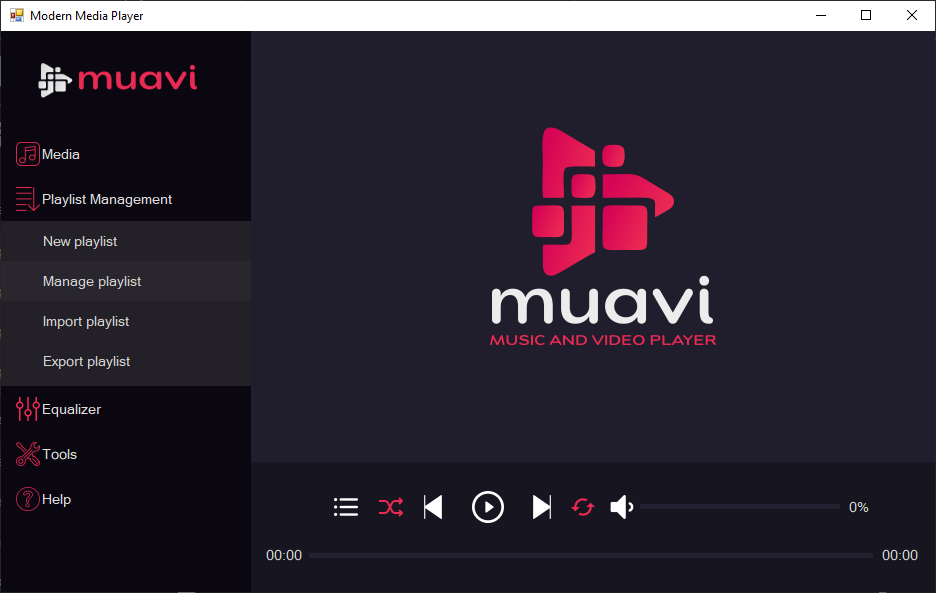
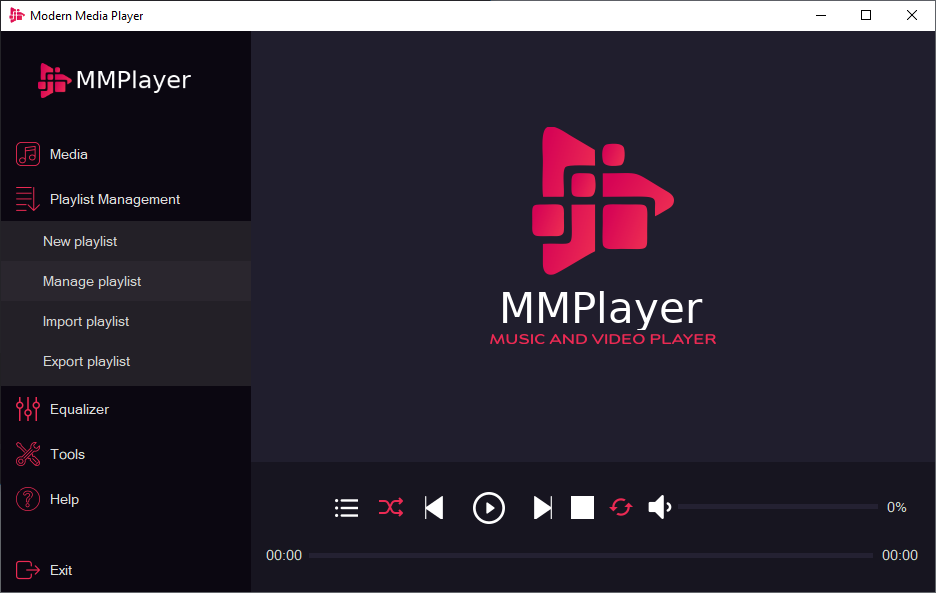
Lotso of graphical adjustments, updated previews

diff --git a/Modern UI audio player/Form1.Designer.cs b/Modern UI audio player/Form1.Designer.cs
@@ -105,7 +105,7 @@ namespace Modern_UI_audio_player
             this.panelSideMenu.Dock = System.Windows.Forms.DockStyle.Left;
             this.panelSideMenu.Location = new System.Drawing.Point(0, 0);
             this.panelSideMenu.Name = "panelSideMenu";
-            this.panelSideMenu.Size = new System.Drawing.Size(250, 582);
+            this.panelSideMenu.Size = new System.Drawing.Size(250, 561);
             this.panelSideMenu.TabIndex = 0;
             // 
             // btnExit
@@ -491,9 +491,9 @@ namespace Modern_UI_audio_player
             this.panelPlayer.Controls.Add(this.pictureBox6);
             this.panelPlayer.Controls.Add(this.pictureBox5);
             this.panelPlayer.Dock = System.Windows.Forms.DockStyle.Bottom;
-            this.panelPlayer.Location = new System.Drawing.Point(250, 452);
+            this.panelPlayer.Location = new System.Drawing.Point(250, 431);
             this.panelPlayer.Name = "panelPlayer";
-            this.panelPlayer.Size = new System.Drawing.Size(876, 130);
+            this.panelPlayer.Size = new System.Drawing.Size(684, 130);
             this.panelPlayer.TabIndex = 1;
             // 
             // btnStop
@@ -503,7 +503,7 @@ namespace Modern_UI_audio_player
             this.btnStop.FlatAppearance.BorderSize = 0;
             this.btnStop.FlatStyle = System.Windows.Forms.FlatStyle.Flat;
             this.btnStop.Image = ((System.Drawing.Image)(resources.GetObject("btnStop.Image")));
-            this.btnStop.Location = new System.Drawing.Point(415, 33);
+            this.btnStop.Location = new System.Drawing.Point(319, 33);
             this.btnStop.Name = "btnStop";
             this.btnStop.Size = new System.Drawing.Size(24, 24);
             this.btnStop.TabIndex = 26;
@@ -517,7 +517,7 @@ namespace Modern_UI_audio_player
             this.button2.FlatAppearance.BorderSize = 0;
             this.button2.FlatStyle = System.Windows.Forms.FlatStyle.Flat;
             this.button2.Image = ((System.Drawing.Image)(resources.GetObject("button2.Image")));
-            this.button2.Location = new System.Drawing.Point(375, 33);
+            this.button2.Location = new System.Drawing.Point(279, 33);
             this.button2.Name = "button2";
             this.button2.Size = new System.Drawing.Size(24, 24);
             this.button2.TabIndex = 25;
@@ -530,7 +530,7 @@ namespace Modern_UI_audio_player
             this.button1.FlatAppearance.BorderSize = 0;
             this.button1.FlatStyle = System.Windows.Forms.FlatStyle.Flat;
             this.button1.Image = ((System.Drawing.Image)(resources.GetObject("button1.Image")));
-            this.button1.Location = new System.Drawing.Point(266, 33);
+            this.button1.Location = new System.Drawing.Point(170, 33);
             this.button1.Name = "button1";
             this.button1.Size = new System.Drawing.Size(24, 24);
             this.button1.TabIndex = 24;
@@ -543,7 +543,7 @@ namespace Modern_UI_audio_player
             this.btnBrowse.FlatAppearance.BorderSize = 0;
             this.btnBrowse.FlatStyle = System.Windows.Forms.FlatStyle.Flat;
             this.btnBrowse.Image = ((System.Drawing.Image)(resources.GetObject("btnBrowse.Image")));
-            this.btnBrowse.Location = new System.Drawing.Point(179, 33);
+            this.btnBrowse.Location = new System.Drawing.Point(83, 33);
             this.btnBrowse.Name = "btnBrowse";
             this.btnBrowse.Size = new System.Drawing.Size(24, 24);
             this.btnBrowse.TabIndex = 2;
@@ -557,7 +557,7 @@ namespace Modern_UI_audio_player
             this.btnPlay.FlatAppearance.BorderSize = 0;
             this.btnPlay.FlatStyle = System.Windows.Forms.FlatStyle.Flat;
             this.btnPlay.Image = ((System.Drawing.Image)(resources.GetObject("btnPlay.Image")));
-            this.btnPlay.Location = new System.Drawing.Point(317, 29);
+            this.btnPlay.Location = new System.Drawing.Point(221, 29);
             this.btnPlay.Name = "btnPlay";
             this.btnPlay.Size = new System.Drawing.Size(33, 33);
             this.btnPlay.TabIndex = 1;
@@ -569,7 +569,7 @@ namespace Modern_UI_audio_player
             this.label3.Anchor = System.Windows.Forms.AnchorStyles.None;
             this.label3.AutoSize = true;
             this.label3.ForeColor = System.Drawing.Color.LightGray;
-            this.label3.Location = new System.Drawing.Point(729, 36);
+            this.label3.Location = new System.Drawing.Point(633, 36);
             this.label3.Name = "label3";
             this.label3.Size = new System.Drawing.Size(28, 17);
             this.label3.TabIndex = 23;
@@ -580,7 +580,7 @@ namespace Modern_UI_audio_player
             this.panel4.Anchor = System.Windows.Forms.AnchorStyles.None;
             this.panel4.BackColor = System.Drawing.Color.FromArgb(((int)(((byte)(36)))), ((int)(((byte)(33)))), ((int)(((byte)(50)))));
             this.panel4.Controls.Add(this.panel5);
-            this.panel4.Location = new System.Drawing.Point(523, 42);
+            this.panel4.Location = new System.Drawing.Point(427, 42);
             this.panel4.Name = "panel4";
             this.panel4.Size = new System.Drawing.Size(200, 5);
             this.panel4.TabIndex = 21;
@@ -608,7 +608,7 @@ namespace Modern_UI_audio_player
             this.label1.Anchor = ((System.Windows.Forms.AnchorStyles)((System.Windows.Forms.AnchorStyles.Top | System.Windows.Forms.AnchorStyles.Right)));
             this.label1.AutoSize = true;
             this.label1.ForeColor = System.Drawing.Color.LightGray;
-            this.label1.Location = new System.Drawing.Point(820, 84);
+            this.label1.Location = new System.Drawing.Point(628, 84);
             this.label1.Name = "label1";
             this.label1.Size = new System.Drawing.Size(44, 17);
             this.label1.TabIndex = 20;
@@ -622,7 +622,7 @@ namespace Modern_UI_audio_player
             this.panel2.Controls.Add(this.panel3);
             this.panel2.Location = new System.Drawing.Point(58, 91);
             this.panel2.Name = "panel2";
-            this.panel2.Size = new System.Drawing.Size(756, 5);
+            this.panel2.Size = new System.Drawing.Size(564, 5);
             this.panel2.TabIndex = 19;
             // 
             // panel3
@@ -637,7 +637,7 @@ namespace Modern_UI_audio_player
             // 
             this.pictureBox8.Anchor = System.Windows.Forms.AnchorStyles.None;
             this.pictureBox8.Image = ((System.Drawing.Image)(resources.GetObject("pictureBox8.Image")));
-            this.pictureBox8.Location = new System.Drawing.Point(493, 33);
+            this.pictureBox8.Location = new System.Drawing.Point(397, 33);
             this.pictureBox8.Name = "pictureBox8";
             this.pictureBox8.Size = new System.Drawing.Size(24, 24);
             this.pictureBox8.SizeMode = System.Windows.Forms.PictureBoxSizeMode.AutoSize;
@@ -649,7 +649,7 @@ namespace Modern_UI_audio_player
             this.pictureBox6.Anchor = System.Windows.Forms.AnchorStyles.None;
             this.pictureBox6.Cursor = System.Windows.Forms.Cursors.Hand;
             this.pictureBox6.Image = ((System.Drawing.Image)(resources.GetObject("pictureBox6.Image")));
-            this.pictureBox6.Location = new System.Drawing.Point(224, 33);
+            this.pictureBox6.Location = new System.Drawing.Point(128, 33);
             this.pictureBox6.Name = "pictureBox6";
             this.pictureBox6.Size = new System.Drawing.Size(24, 24);
             this.pictureBox6.SizeMode = System.Windows.Forms.PictureBoxSizeMode.AutoSize;
@@ -661,7 +661,7 @@ namespace Modern_UI_audio_player
             this.pictureBox5.Anchor = System.Windows.Forms.AnchorStyles.None;
             this.pictureBox5.Cursor = System.Windows.Forms.Cursors.Hand;
             this.pictureBox5.Image = ((System.Drawing.Image)(resources.GetObject("pictureBox5.Image")));
-            this.pictureBox5.Location = new System.Drawing.Point(454, 33);
+            this.pictureBox5.Location = new System.Drawing.Point(358, 33);
             this.pictureBox5.Name = "pictureBox5";
             this.pictureBox5.Size = new System.Drawing.Size(24, 24);
             this.pictureBox5.SizeMode = System.Windows.Forms.PictureBoxSizeMode.AutoSize;
@@ -675,14 +675,14 @@ namespace Modern_UI_audio_player
             this.panelChildForm.Dock = System.Windows.Forms.DockStyle.Fill;
             this.panelChildForm.Location = new System.Drawing.Point(250, 0);
             this.panelChildForm.Name = "panelChildForm";
-            this.panelChildForm.Size = new System.Drawing.Size(876, 452);
+            this.panelChildForm.Size = new System.Drawing.Size(684, 431);
             this.panelChildForm.TabIndex = 2;
             // 
             // pictureBox1
             // 
             this.pictureBox1.Anchor = System.Windows.Forms.AnchorStyles.None;
             this.pictureBox1.Image = ((System.Drawing.Image)(resources.GetObject("pictureBox1.Image")));
-            this.pictureBox1.Location = new System.Drawing.Point(335, 107);
+            this.pictureBox1.Location = new System.Drawing.Point(239, 96);
             this.pictureBox1.Name = "pictureBox1";
             this.pictureBox1.Size = new System.Drawing.Size(226, 218);
             this.pictureBox1.SizeMode = System.Windows.Forms.PictureBoxSizeMode.AutoSize;
@@ -693,7 +693,7 @@ namespace Modern_UI_audio_player
             // 
             this.AutoScaleDimensions = new System.Drawing.SizeF(8F, 16F);
             this.AutoScaleMode = System.Windows.Forms.AutoScaleMode.Font;
-            this.ClientSize = new System.Drawing.Size(1126, 582);
+            this.ClientSize = new System.Drawing.Size(934, 561);
             this.Controls.Add(this.panelChildForm);
             this.Controls.Add(this.panelPlayer);
             this.Controls.Add(this.panelSideMenu);

diff --git a/Modern UI audio player/VisualisationSelector.Designer.cs b/Modern UI audio player/VisualisationSelector.Designer.cs
@@ -41,7 +41,7 @@ namespace Modern_UI_audio_player
             this.btnVis1.FlatAppearance.BorderSize = 0;
             this.btnVis1.FlatStyle = System.Windows.Forms.FlatStyle.Flat;
             this.btnVis1.Image = ((System.Drawing.Image)(resources.GetObject("btnVis1.Image")));
-            this.btnVis1.Location = new System.Drawing.Point(156, 112);
+            this.btnVis1.Location = new System.Drawing.Point(104, 105);
             this.btnVis1.Name = "btnVis1";
             this.btnVis1.Size = new System.Drawing.Size(142, 80);
             this.btnVis1.TabIndex = 0;
@@ -54,7 +54,7 @@ namespace Modern_UI_audio_player
             this.btnVis2.FlatAppearance.BorderSize = 0;
             this.btnVis2.FlatStyle = System.Windows.Forms.FlatStyle.Flat;
             this.btnVis2.Image = ((System.Drawing.Image)(resources.GetObject("btnVis2.Image")));
-            this.btnVis2.Location = new System.Drawing.Point(295, 112);
+            this.btnVis2.Location = new System.Drawing.Point(243, 105);
             this.btnVis2.Name = "btnVis2";
             this.btnVis2.Size = new System.Drawing.Size(142, 80);
             this.btnVis2.TabIndex = 1;
@@ -67,7 +67,7 @@ namespace Modern_UI_audio_player
             this.label1.AutoSize = true;
             this.label1.Font = new System.Drawing.Font("Microsoft Sans Serif", 15F, System.Drawing.FontStyle.Regular, System.Drawing.GraphicsUnit.Point, ((byte)(0)));
             this.label1.ForeColor = System.Drawing.Color.FromArgb(((int)(((byte)(235)))), ((int)(((byte)(42)))), ((int)(((byte)(83)))));
-            this.label1.Location = new System.Drawing.Point(277, 36);
+            this.label1.Location = new System.Drawing.Point(219, 36);
             this.label1.Name = "label1";
             this.label1.Size = new System.Drawing.Size(278, 25);
             this.label1.TabIndex = 20;
@@ -78,7 +78,7 @@ namespace Modern_UI_audio_player
             this.AutoScaleDimensions = new System.Drawing.SizeF(6F, 13F);
             this.AutoScaleMode = System.Windows.Forms.AutoScaleMode.Font;
             this.BackColor = System.Drawing.Color.FromArgb(((int)(((byte)(32)))), ((int)(((byte)(30)))), ((int)(((byte)(45)))));
-            this.ClientSize = new System.Drawing.Size(800, 450);
+            this.ClientSize = new System.Drawing.Size(684, 431);
             this.Controls.Add(this.label1);
             this.Controls.Add(this.btnVis2);
             this.Controls.Add(this.btnVis1);

diff --git a/Modern UI audio player/HelpForm.Designer.cs b/Modern UI audio player/HelpForm.Designer.cs
@@ -53,7 +53,7 @@ namespace Modern_UI_audio_player
             this.label2.AutoSize = true;
             this.label2.Font = new System.Drawing.Font("Microsoft Sans Serif", 26.25F, System.Drawing.FontStyle.Regular, System.Drawing.GraphicsUnit.Point, ((byte)(0)));
             this.label2.ForeColor = System.Drawing.Color.LightGray;
-            this.label2.Location = new System.Drawing.Point(219, 196);
+            this.label2.Location = new System.Drawing.Point(219, 164);
             this.label2.Name = "label2";
             this.label2.Size = new System.Drawing.Size(357, 39);
             this.label2.TabIndex = 1;
@@ -65,7 +65,7 @@ namespace Modern_UI_audio_player
             this.label3.AutoSize = true;
             this.label3.Font = new System.Drawing.Font("Microsoft Sans Serif", 21.75F, System.Drawing.FontStyle.Regular, System.Drawing.GraphicsUnit.Point, ((byte)(0)));
             this.label3.ForeColor = System.Drawing.Color.LightGray;
-            this.label3.Location = new System.Drawing.Point(178, 335);
+            this.label3.Location = new System.Drawing.Point(178, 303);
             this.label3.Name = "label3";
             this.label3.Size = new System.Drawing.Size(462, 33);
             this.label3.TabIndex = 2;
